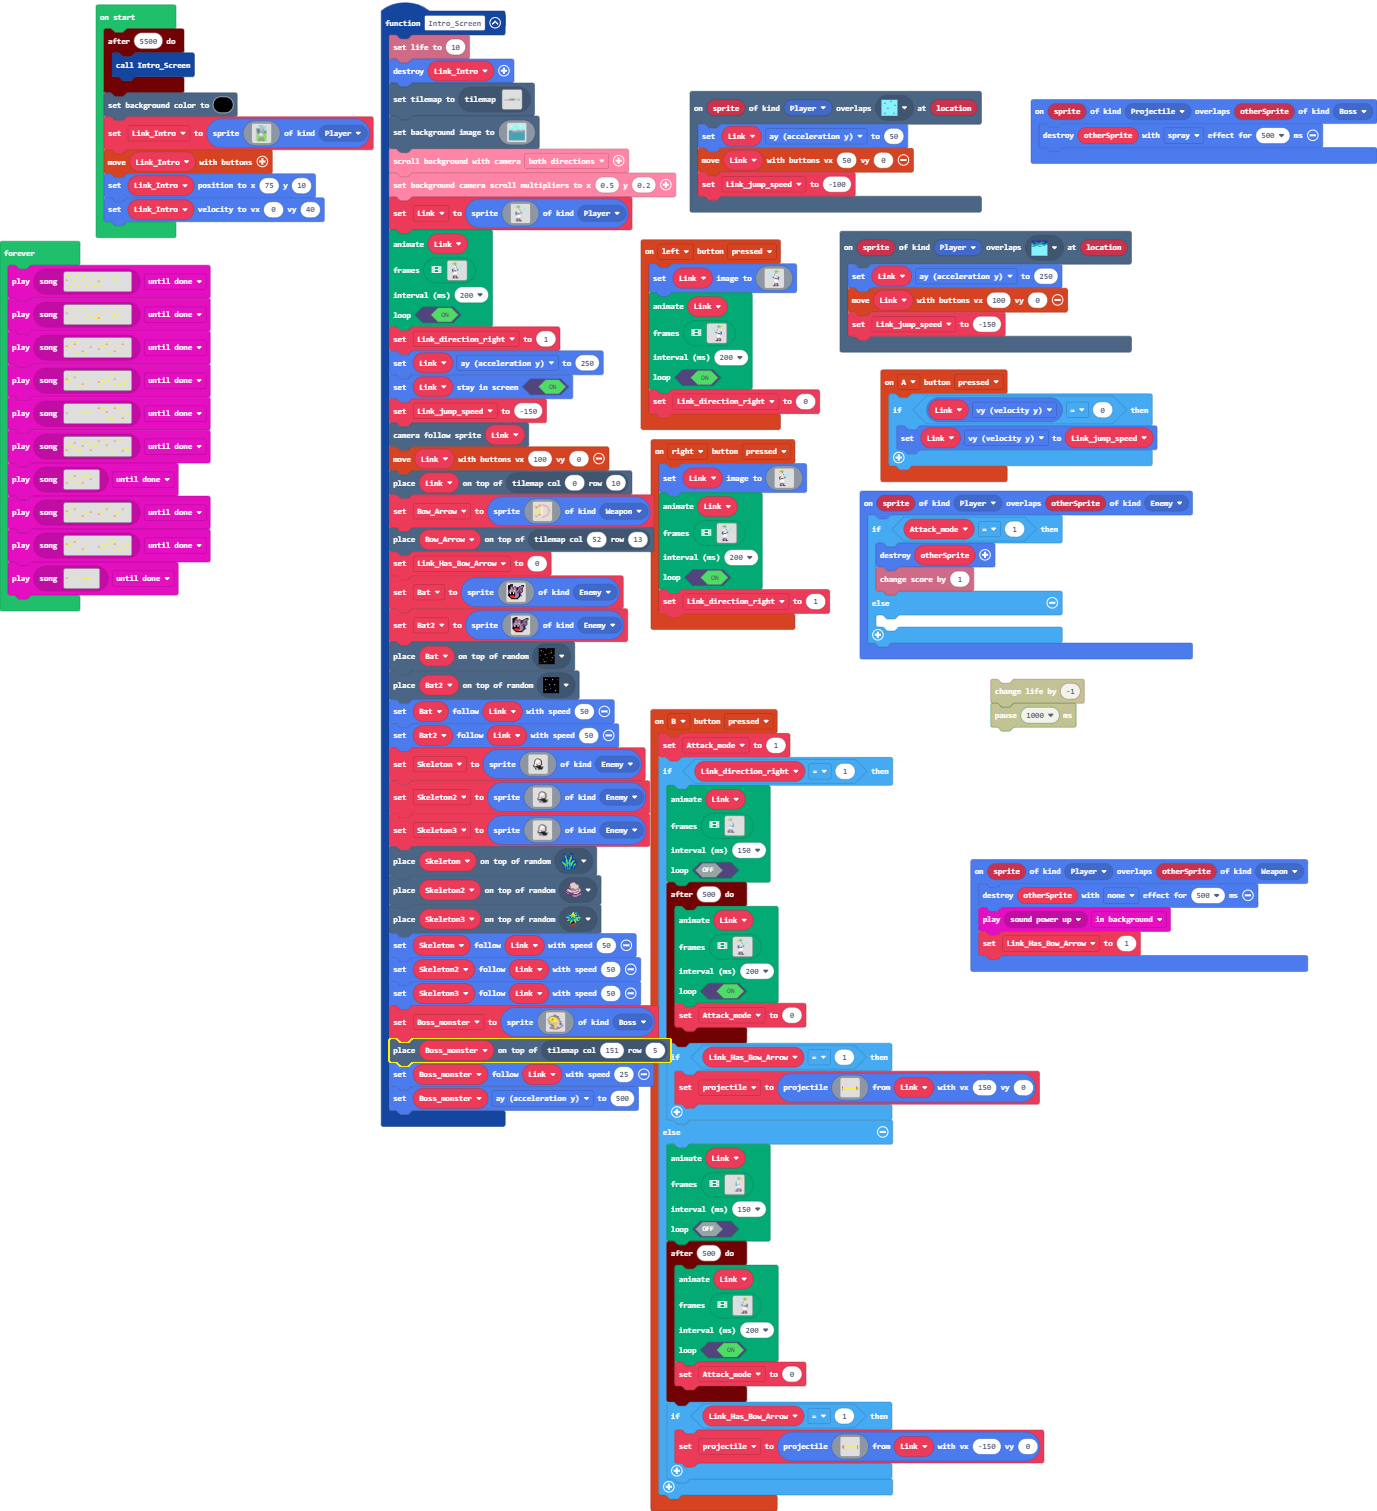
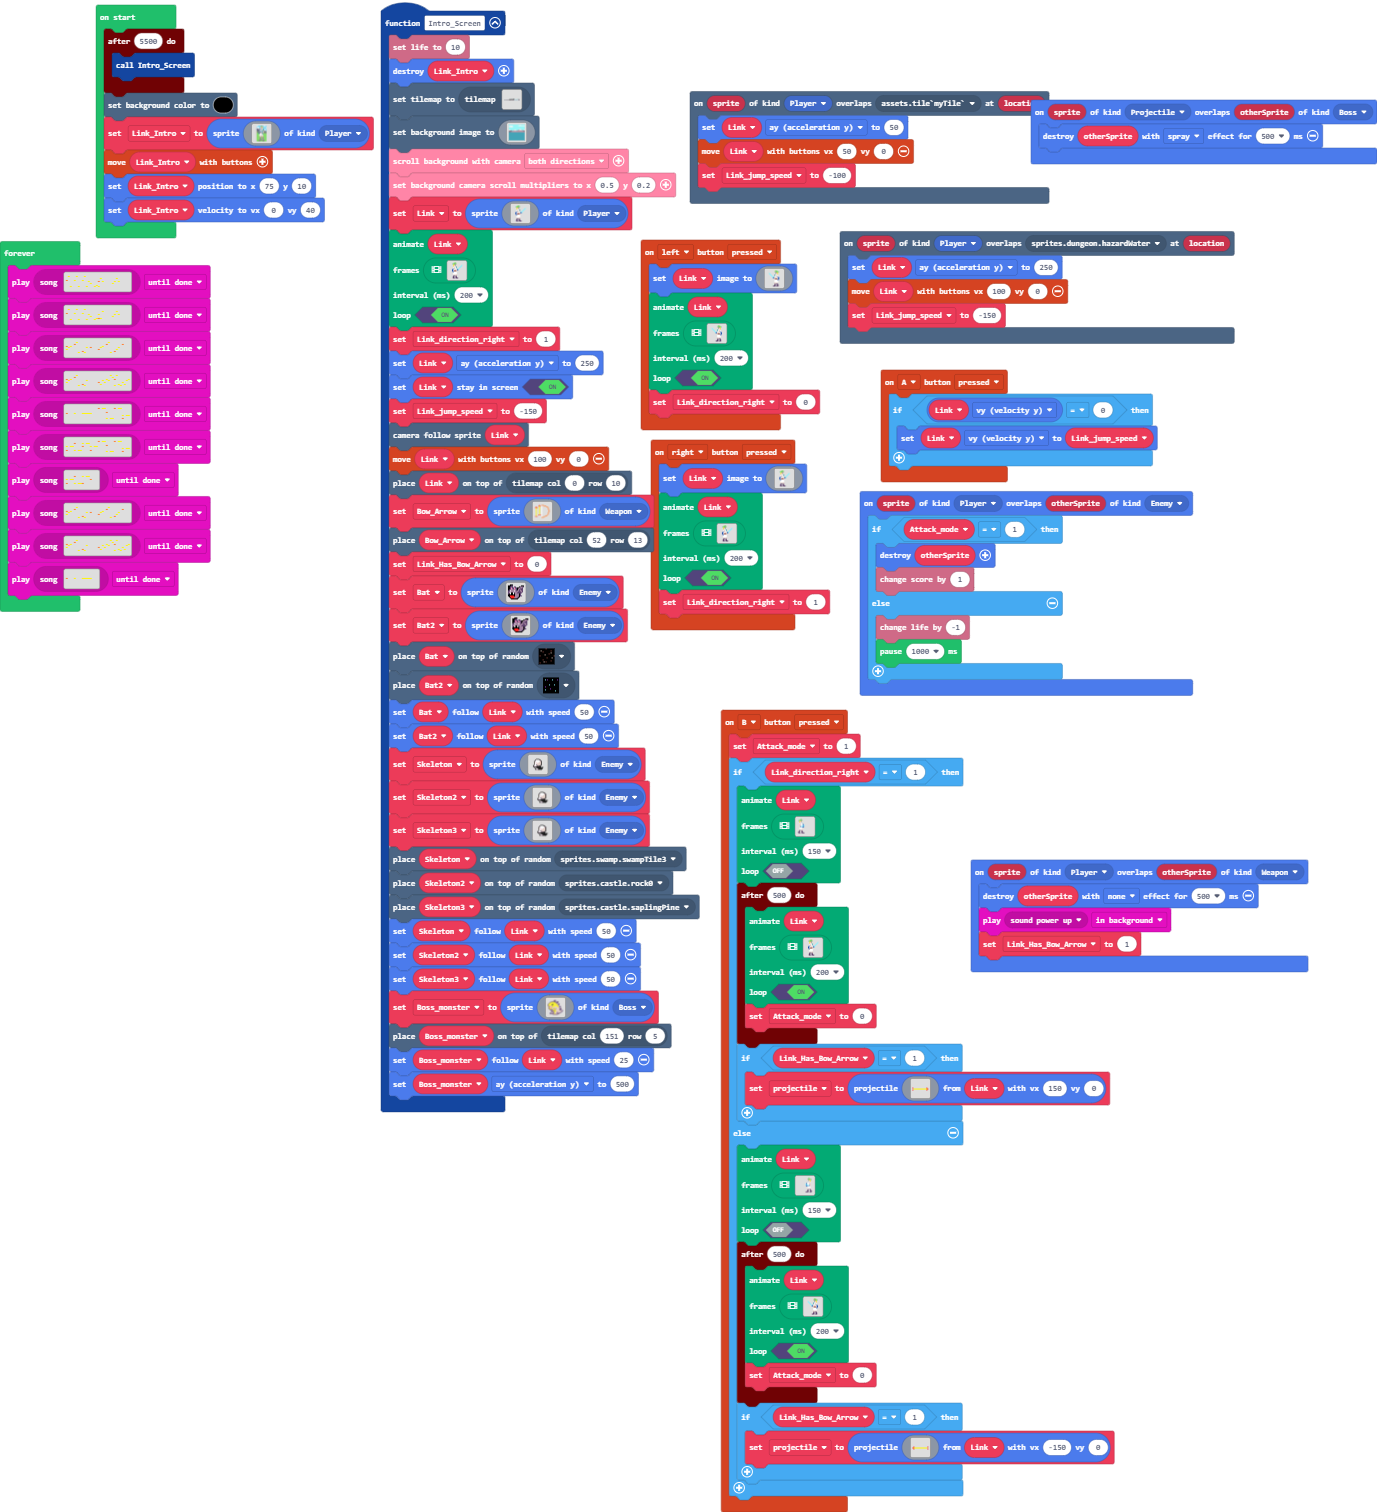
Update main.blocks, main.ts

diff --git a/main.ts b/main.ts
@@ -572,7 +572,8 @@ sprites.onOverlap(SpriteKind.Player, SpriteKind.Enemy, function (sprite, otherSp
         sprites.destroy(otherSprite)
         info.changeScoreBy(1)
     } else {
-    	
+        info.changeLifeBy(-1)
+        pause(1000)
     }
 })
 let Boss_monster: Sprite = null
